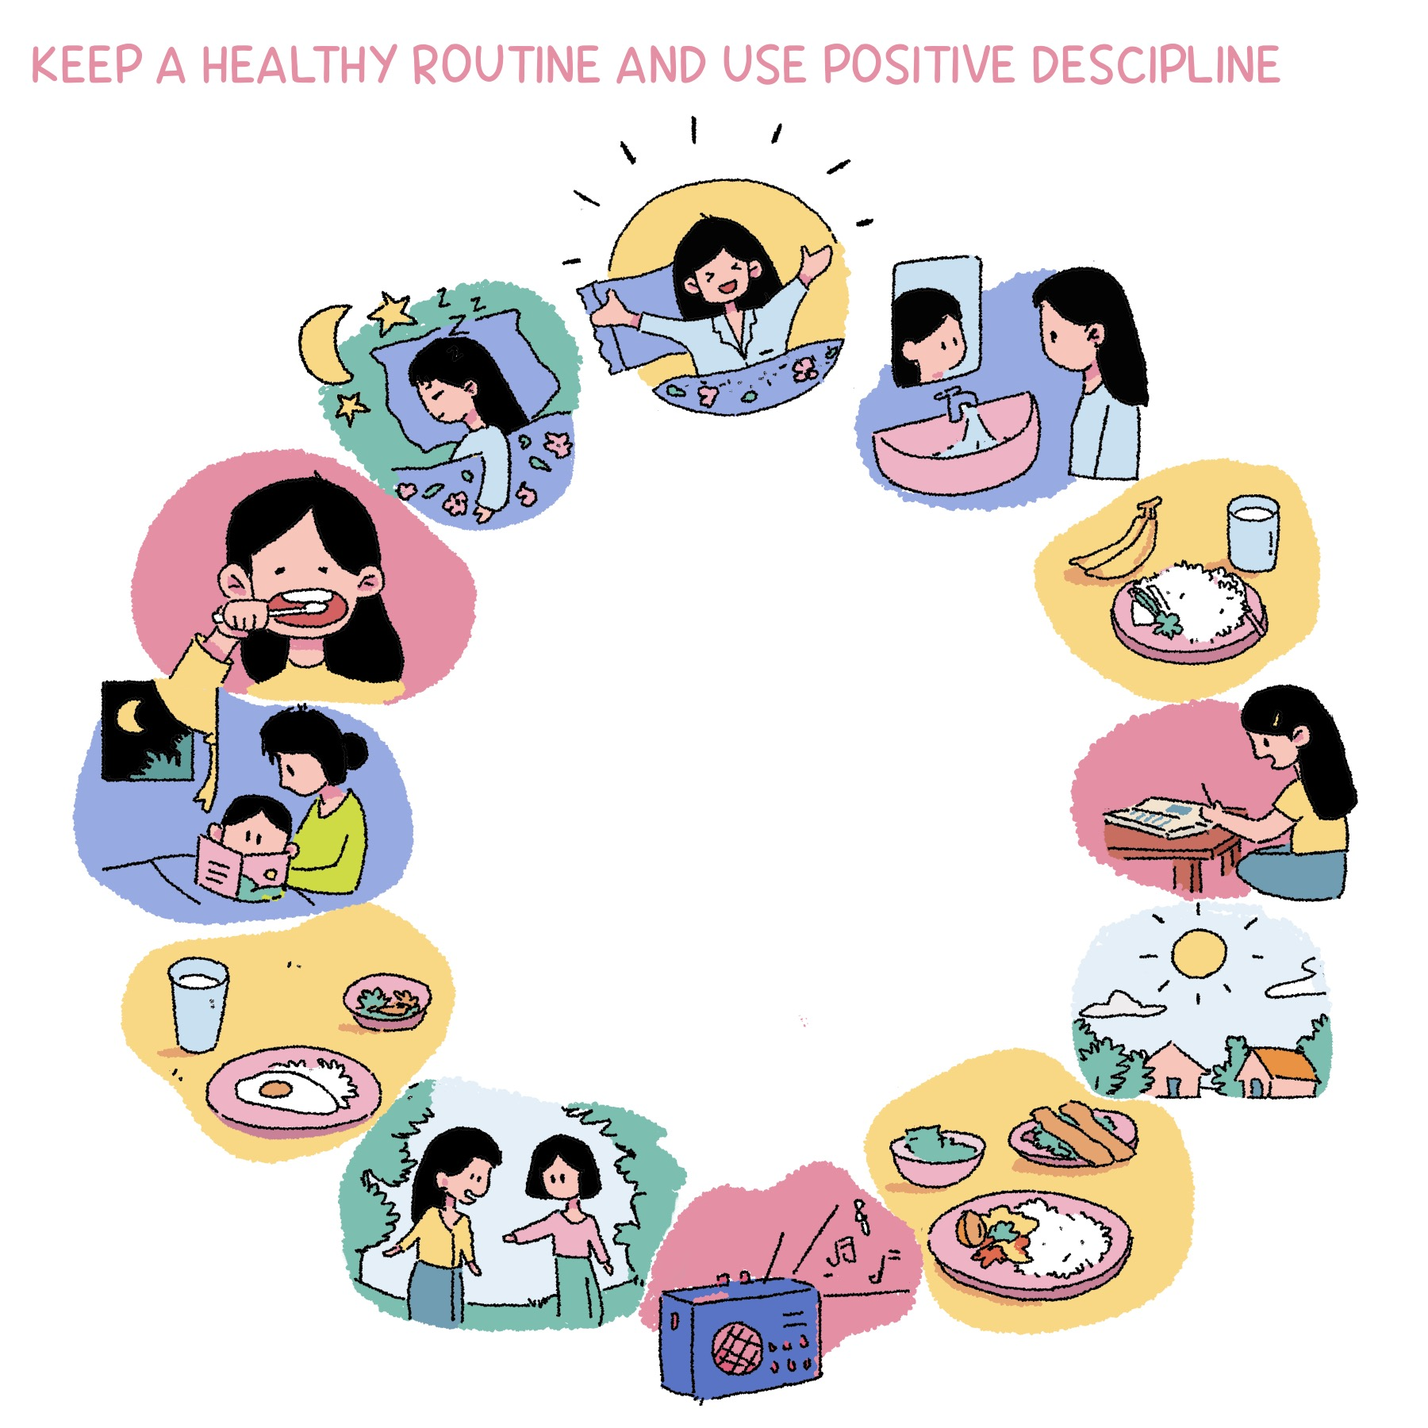
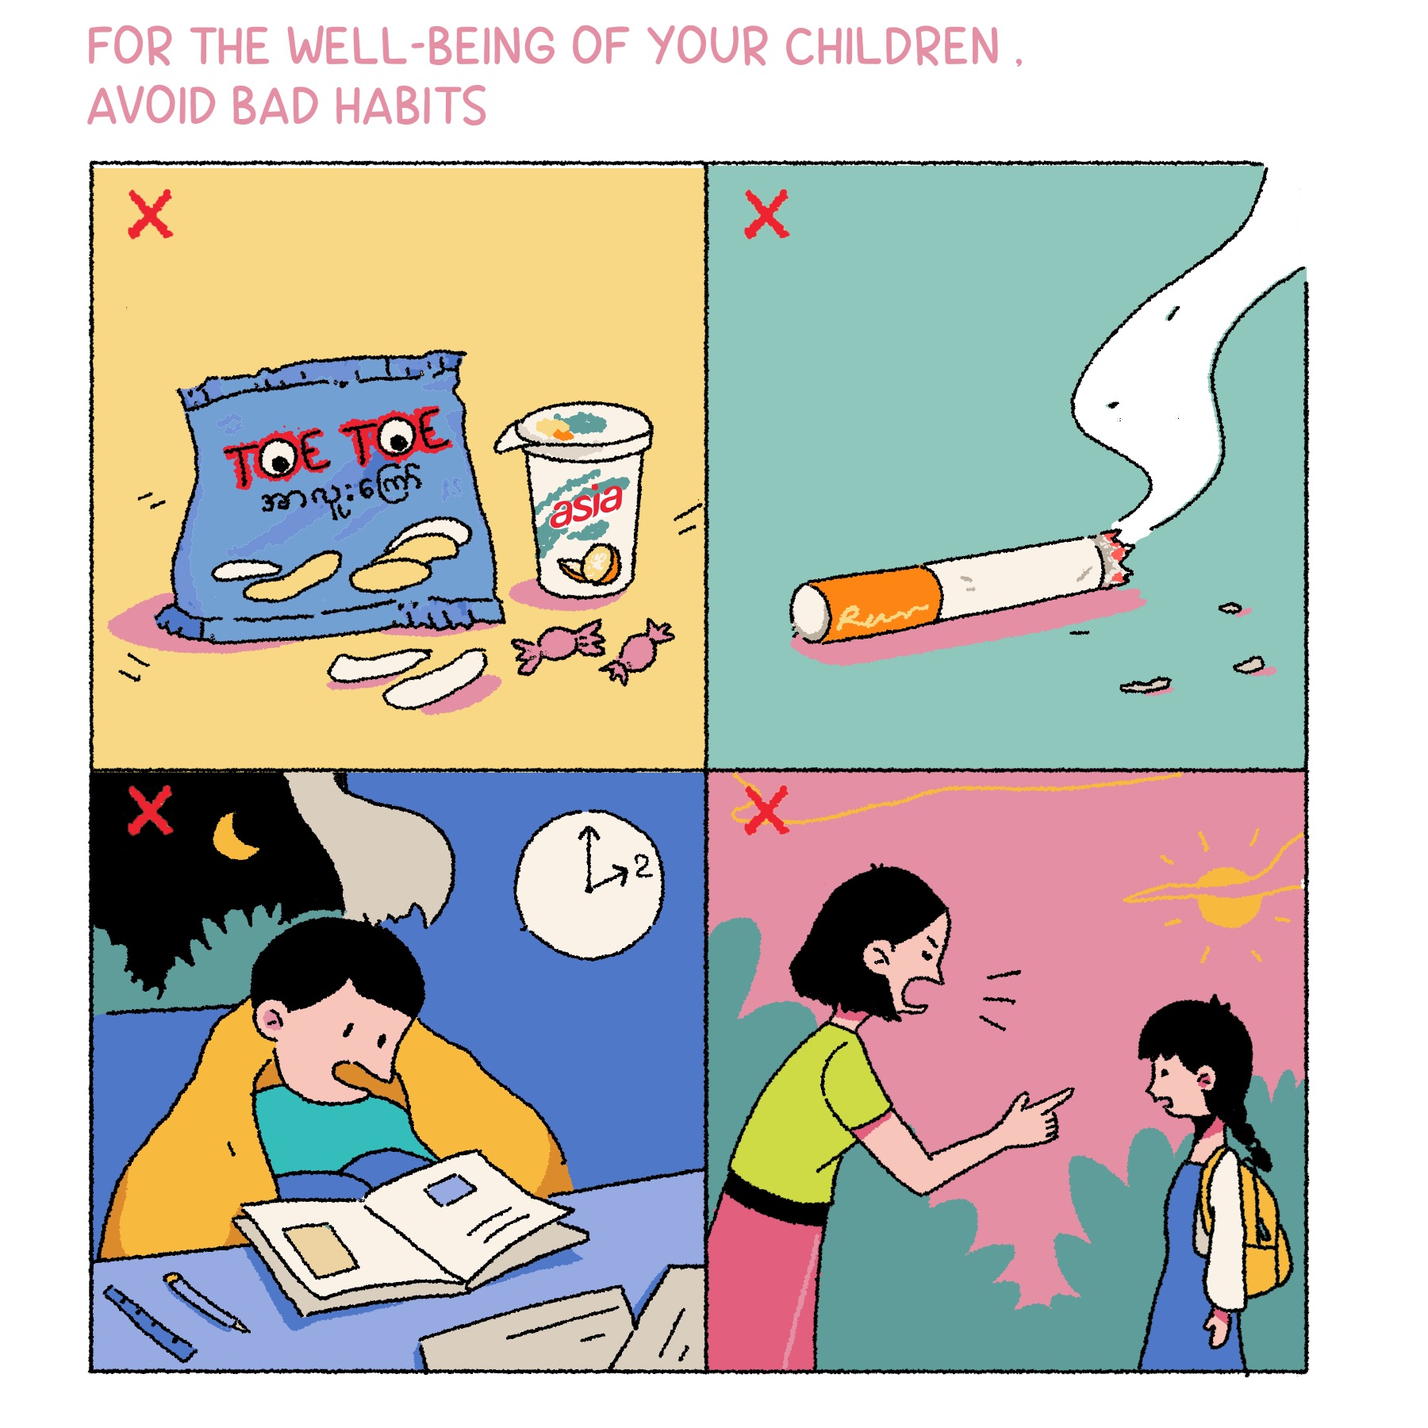
change page names and links update

diff --git a/projects.html b/projects.html
@@ -46,8 +46,8 @@
           </button>
           <a href="index.html" class="mobile-home-link" style="display: none; position: absolute; top: 1rem; left: 50%; transform: translateX(-50%); font-family: 'Darumadrop One', sans-serif; font-weight: 400; font-size: 5rem; color: #d95662; text-decoration: none; white-space: nowrap; z-index: 2501;">Khae Su</a>
           <div class="nav-links">
-            <a href="index.html">Personal</a>
-            <a href="work.html" class="active">Work</a>
+            <a href="index.html">Work</a>
+            <a href="projects.html" class="active">Projects</a>
             <a href="about.html">About</a>
             <a href="contact.html">Contact</a>
           </div>
@@ -55,13 +55,13 @@
             <a href="https://instagram.com/khaesu.art" target="_blank" rel="noopener noreferrer" aria-label="Instagram" class="nav-icon">
               <svg viewBox="0 0 24 24"><path d="M12 7.2A4.8 4.8 0 1 0 12 16.8A4.8 4.8 0 1 0 12 7.2Z" stroke="currentColor" stroke-width="1.5" fill="none"/><circle cx="17.2" cy="6.8" r="1.2" fill="currentColor"/><rect x="3.2" y="3.2" width="17.6" height="17.6" rx="5.8" stroke="currentColor" stroke-width="1.5" fill="none"/></svg>
             </a>
-            <a href="https://www.facebook.com/yaykhae.mm/" target="_blank" rel="noopener noreferrer" aria-label="Facebook" class="nav-icon">
+            <a href="https://www.facebook.com/khaesu.art" target="_blank" rel="noopener noreferrer" aria-label="Facebook" class="nav-icon">
               <svg viewBox="0 0 24 24" fill="none" stroke="currentColor" stroke-width="1" xmlns="http://www.w3.org/2000/svg">
                 <rect x="3.2" y="3.2" width="17.6" height="17.6" rx="5.8" stroke="currentColor" stroke-width="1" fill="none"/>
                 <path d="M13 19V13H15L15.3 11H13V9.5C13 9 13.2 8.7 14 8.7H15.3V7.2C15.1 7.2 14.4 7.1 13.7 7.1C12.1 7.1 11.3 7.9 11.3 9.5V11H10V13H11.3V19H13Z" fill="none" stroke="currentColor" stroke-width="1" stroke-linecap="round" stroke-linejoin="round"/>
               </svg>
             </a>
-            <a href="https://www.youtube.com/@KhaeeeSu" target="_blank" rel="noopener noreferrer" aria-label="YouTube" class="nav-icon">
+            <a href="https://www.youtube.com/@khaesunoe" target="_blank" rel="noopener noreferrer" aria-label="YouTube" class="nav-icon">
               <svg viewBox="0 0 24 24"><path d="M10 9.5V14.5L15 12L10 9.5Z" fill="currentColor"/><rect x="3.2" y="3.2" width="17.6" height="17.6" rx="5.8" stroke="currentColor" stroke-width="1.5" fill="none"/></svg>
             </a>
           </div>
@@ -86,7 +86,7 @@
                 <button class="scroll-arrow right" aria-label="Scroll images right">→</button>
               </div>
               <div class="tile-text">
-                <h2><a href="https://www.facebook.com/story.php?story_fbid=3323949474389956&id=293856427399291&mibextid=wwXIfr&rdid=TaRJQ3eM9zasCzWa#" target="_blank" rel="noopener noreferrer">Colorstone Book Storefront Series</a></h2>
+                <h2><a href="https://www.facebook.com/story.php?story_fbid=3323949474389956&id=293856427399291&mibextid=wwXIfr&rdid=TaRJQ3eM9zasCzWa#" target="_blank" rel="noopener noreferrer" class="borel-title">Colorstone Book Storefront Series</a></h2>
                 <p>This project was a collaboration with <a href="https://www.facebook.com/colorstones.myanmar" target="_blank" rel="noopener noreferrer">Colorstone Book</a>, a well-known Myanmar stationery brand. They discovered my storefront illustrations on social media and approached me to turn them into a series of book covers for their Watercolour Block line. The project gained a lot of attention online, leading to a full series launch that started with my designs. <a href="https://www.facebook.com/story.php?story_fbid=3323949474389956&id=293856427399291&mibextid=wwXIfr&rdid=TaRJQ3eM9zasCzWa#" target="_blank" rel="noopener noreferrer">Ad Post</a> <a href="https://www.facebook.com/story.php?story_fbid=3308117565973147&id=293856427399291&mibextid=wwXIfr&rdid=HlNqeF4ctUMPzypQ#" target="_blank" rel="noopener noreferrer">Painting Process Video</a> <a href="https://www.facebook.com/story.php?story_fbid=3346120115506225&id=293856427399291&mibextid=wwXIfr&rdid=0NUhXoI00uXL2uOm#" target="_blank" rel="noopener noreferrer">Watercolour Pastel Set Promotional Video</a></p>
               </div>
             </div>
@@ -109,7 +109,7 @@
                 <button class="scroll-arrow right" aria-label="Scroll images right">→</button>
               </div>
               <div class="tile-text">
-                <h2><a href="https://www.nrc.no/campaign/blp/trauma" target="_blank" rel="noopener noreferrer">Better Learning Programme Comic</a></h2>
+                <h2><a href="https://www.nrc.no/campaign/blp/trauma" target="_blank" rel="noopener noreferrer" class="borel-title">Better Learning Programme Comic</a></h2>
                 <p>This comic was created in collaboration with <a href="https://www.nrc.no/" target="_blank" rel="noopener noreferrer">Norwegian Refugee Council (NRC)</a> for their <a href="https://www.nrc.no/campaign/blp/trauma" target="_blank" rel="noopener noreferrer">Better Learning Programme</a> in Myanmar. They provided story texts in multiple languages, which I adapted into illustrated comics, incorporating both visuals and text. The comic follows the journey of a child learning to cope after being displaced by military conflict. It was printed and distributed as part of NRC's refugee support efforts.</p>
               </div>
             </div>
@@ -129,7 +129,7 @@
                 <button class="scroll-arrow right" aria-label="Scroll images right">→</button>
               </div>
               <div class="tile-text">
-                <h2><a href="https://www.nrc.no/campaign/blp/trauma" target="_blank" rel="noopener noreferrer">Better Learning Programme Educational Poster</a></h2>
+                <h2><a href="https://www.nrc.no/campaign/blp/trauma" target="_blank" rel="noopener noreferrer" class="borel-title">Better Learning Programme Poster</a></h2>
                 <p>This educational poster was created to promote healthy routines, positive discipline, and emotional wellbeing for children affected by the conflict in Myanmar. The illustrations were designed to be clear, engaging, and culturally relevant, with key messages incorporated in multiple local languages provided by the organisation to ensure accessibility across different communities.</p>
               </div>
             </div>
@@ -151,7 +151,7 @@
                 <button class="scroll-arrow right" aria-label="Scroll images right">→</button>
               </div>
               <div class="tile-text">
-                <h2><a href="https://www.nrc.no/what-we-do/activities-in-the-field/icla" target="_blank" rel="noopener noreferrer">Information, Counselling and Legal Assistance (ICLA) Visual Materials</a></h2>
+                <h2><a href="https://www.nrc.no/what-we-do/activities-in-the-field/icla" target="_blank" rel="noopener noreferrer" class="borel-title">Information, Counselling and Legal Assistance (ICLA) Visual Materials</a></h2>
                 <p>As part of NRC's ICLA programme in Myanmar, I developed visual materials including posters and leaflets to help share essential legal information with affected communities. The project involved transforming around 50 key messages into simple, easy-to-understand illustrations. To reach as many people as possible, the materials were produced in Burmese, English, and several regional languages.</p>
               </div>
             </div>
@@ -170,7 +170,7 @@
                 <button class="scroll-arrow right" aria-label="Scroll images right">→</button>
               </div>
               <div class="tile-text">
-                <h2><a href="https://www.facebook.com/famepharma" target="_blank" rel="noopener noreferrer">FAME Pharmaceuticals Illustrative Materials</a></h2>
+                <h2><a href="https://famepharma.com/" target="_blank" rel="noopener noreferrer" class="borel-title">FAME Pharmaceuticals Illustrative Materials</a></h2>
                 <p><a href="https://www.facebook.com/famepharma" target="_blank" rel="noopener noreferrer">FAME</a> commissioned me to create promotional illustrations for their brand, including artwork for dietary supplements, their organic farm products, and a featured illustration in their designer calendar. Each piece was tailored to communicate their brand's identity in a visually engaging way. <a href="https://www.facebook.com/share/p/19Z9vMYEL5/?mibextid=wwXIfr" target="_blank" rel="noopener noreferrer">Supplement Advertisement</a> <a href="https://www.facebook.com/share/p/16PH6bPsmq/?mibextid=wwXIfr" target="_blank" rel="noopener noreferrer">Organic Farm Advertisement</a> <a href="https://www.facebook.com/story.php?story_fbid=407295384431699&id=109840050843902&mibextid=wwXIfr&rdid=9NDnPEB8Fd36TRQz#" target="_blank" rel="noopener noreferrer">Designer Calendar</a></p>
               </div>
             </div>

diff --git a/contact.html b/contact.html
@@ -46,8 +46,8 @@
                     </button>
                     <a href="index.html" class="mobile-home-link" style="display: none; position: absolute; top: 1rem; left: 50%; transform: translateX(-50%); font-family: 'Darumadrop One', sans-serif; font-weight: 400; font-size: 5rem; color: #d95662; text-decoration: none; white-space: nowrap; z-index: 2501;">Khae Su</a>
                     <div class="nav-links">
-                        <a href="index.html">Personal</a>
-                        <a href="work.html">Work</a>
+                        <a href="index.html">Work</a>
+                        <a href="projects.html">Projects</a>
                         <a href="about.html">About</a>
                         <a href="contact.html" class="active">Contact</a>
                     </div>
@@ -55,13 +55,13 @@
                         <a href="https://instagram.com/khaesu.art" target="_blank" rel="noopener noreferrer" aria-label="Instagram" class="nav-icon">
                             <svg viewBox="0 0 24 24"><path d="M12 7.2A4.8 4.8 0 1 0 12 16.8A4.8 4.8 0 1 0 12 7.2Z" stroke="currentColor" stroke-width="1.5" fill="none"/><circle cx="17.2" cy="6.8" r="1.2" fill="currentColor"/><rect x="3.2" y="3.2" width="17.6" height="17.6" rx="5.8" stroke="currentColor" stroke-width="1.5" fill="none"/></svg>
                         </a>
-                        <a href="https://www.facebook.com/yaykhae.mm/" target="_blank" rel="noopener noreferrer" aria-label="Facebook" class="nav-icon">
+                        <a href="https://www.facebook.com/khaesu.art" target="_blank" rel="noopener noreferrer" aria-label="Facebook" class="nav-icon">
                             <svg viewBox="0 0 24 24" fill="none" stroke="currentColor" stroke-width="1" xmlns="http://www.w3.org/2000/svg">
                                 <rect x="3.2" y="3.2" width="17.6" height="17.6" rx="5.8" stroke="currentColor" stroke-width="1" fill="none"/>
                                 <path d="M13 19V13H15L15.3 11H13V9.5C13 9 13.2 8.7 14 8.7H15.3V7.2C15.1 7.2 14.4 7.1 13.7 7.1C12.1 7.1 11.3 7.9 11.3 9.5V11H10V13H11.3V19H13Z" fill="none" stroke="currentColor" stroke-width="1" stroke-linecap="round" stroke-linejoin="round"/>
                             </svg>
                         </a>
-                        <a href="https://www.youtube.com/@KhaeeeSu" target="_blank" rel="noopener noreferrer" aria-label="YouTube" class="nav-icon">
+                        <a href="https://www.youtube.com/@khaesunoe" target="_blank" rel="noopener noreferrer" aria-label="YouTube" class="nav-icon">
                             <svg viewBox="0 0 24 24"><path d="M10 9.5V14.5L15 12L10 9.5Z" fill="currentColor"/><rect x="3.2" y="3.2" width="17.6" height="17.6" rx="5.8" stroke="currentColor" stroke-width="1.5" fill="none"/></svg>
                         </a>
                     </div>
@@ -75,8 +75,7 @@
                 </div>
                 <h2 style="color: #5c8a34;">Interested in working with me?</h2>
                 <p style="font-size: 1.1rem;">
-                    I'm currently open for commissions, collaborations, or creative conversations. Feel free to send me a message below.<br>
-                    I'd love to hear from you 🌿<br><br>
+                    I'm open to commissions, collaborations, and creative conversations. Whether you have a project in mind or just want to say hello, don’t hesitate to reach out.<br><br>
                     <span><a href="mailto:khaesu.art@gmail.com" style="color: inherit;">khaesu.art@gmail.com</a></span>
                 </p>
                 <form action="https://formsubmit.co/khaesu.art@gmail.com" method="POST" class="contact-form">

diff --git a/thank-you.html b/thank-you.html
@@ -45,8 +45,8 @@
                     </button>
                     <a href="index.html" class="mobile-home-link" style="display: none; position: absolute; top: 1rem; left: 50%; transform: translateX(-50%); font-family: 'Darumadrop One', sans-serif; font-weight: 400; font-size: 5rem; color: #d95662; text-decoration: none; white-space: nowrap; z-index: 2501;">Khae Su</a>
                     <div class="nav-links">
-                        <a href="index.html">Personal</a>
-                        <a href="work.html">Work</a>
+                        <a href="index.html">Work</a>
+                        <a href="projects.html">Projects</a>
                         <a href="about.html">About</a>
                         <a href="contact.html">Contact</a>
                     </div>
@@ -54,13 +54,13 @@
                         <a href="https://instagram.com/khaesu.art" target="_blank" rel="noopener noreferrer" aria-label="Instagram" class="nav-icon">
                             <svg viewBox="0 0 24 24"><path d="M12 7.2A4.8 4.8 0 1 0 12 16.8A4.8 4.8 0 1 0 12 7.2Z" stroke="currentColor" stroke-width="1.5" fill="none"/><circle cx="17.2" cy="6.8" r="1.2" fill="currentColor"/><rect x="3.2" y="3.2" width="17.6" height="17.6" rx="5.8" stroke="currentColor" stroke-width="1.5" fill="none"/></svg>
                         </a>
-                        <a href="https://www.facebook.com/yaykhae.mm/" target="_blank" rel="noopener noreferrer" aria-label="Facebook" class="nav-icon">
+                        <a href="https://www.facebook.com/khaesu.art" target="_blank" rel="noopener noreferrer" aria-label="Facebook" class="nav-icon">
                             <svg viewBox="0 0 24 24" fill="none" stroke="currentColor" stroke-width="1" xmlns="http://www.w3.org/2000/svg">
                                 <rect x="3.2" y="3.2" width="17.6" height="17.6" rx="5.8" stroke="currentColor" stroke-width="1" fill="none"/>
                                 <path d="M13 19V13H15L15.3 11H13V9.5C13 9 13.2 8.7 14 8.7H15.3V7.2C15.1 7.2 14.4 7.1 13.7 7.1C12.1 7.1 11.3 7.9 11.3 9.5V11H10V13H11.3V19H13Z" fill="none" stroke="currentColor" stroke-width="1" stroke-linecap="round" stroke-linejoin="round"/>
                             </svg>
                         </a>
-                        <a href="https://www.youtube.com/@KhaeeeSu" target="_blank" rel="noopener noreferrer" aria-label="YouTube" class="nav-icon">
+                        <a href="https://www.youtube.com/@khaesunoe" target="_blank" rel="noopener noreferrer" aria-label="YouTube" class="nav-icon">
                             <svg viewBox="0 0 24 24"><path d="M10 9.5V14.5L15 12L10 9.5Z" fill="currentColor"/><rect x="3.2" y="3.2" width="17.6" height="17.6" rx="5.8" stroke="currentColor" stroke-width="1.5" fill="none"/></svg>
                         </a>
                     </div>

diff --git a/index.html b/index.html
@@ -46,8 +46,8 @@
           </button>
           <a href="index.html" class="mobile-home-link" style="display: none; position: absolute; top: 1rem; left: 50%; transform: translateX(-50%); font-family: 'Darumadrop One', sans-serif; font-weight: 400; font-size: 5rem; color: #d95662; text-decoration: none; white-space: nowrap; z-index: 2501;">Khae Su</a>
           <div class="nav-links">
-            <a href="index.html" class="active">Personal</a>
-            <a href="work.html">Work</a>
+            <a href="index.html" class="active">Work</a>
+            <a href="projects.html">Projects</a>
             <a href="about.html">About</a>
             <a href="contact.html">Contact</a>
           </div>
@@ -55,13 +55,13 @@
             <a href="https://instagram.com/khaesu.art" target="_blank" rel="noopener noreferrer" aria-label="Instagram" class="nav-icon">
               <svg viewBox="0 0 24 24"><path d="M12 7.2A4.8 4.8 0 1 0 12 16.8A4.8 4.8 0 1 0 12 7.2Z" stroke="currentColor" stroke-width="1.5" fill="none"/><circle cx="17.2" cy="6.8" r="1.2" fill="currentColor"/><rect x="3.2" y="3.2" width="17.6" height="17.6" rx="5.8" stroke="currentColor" stroke-width="1.5" fill="none"/></svg>
             </a>
-            <a href="https://www.facebook.com/yaykhae.mm/" target="_blank" rel="noopener noreferrer" aria-label="Facebook" class="nav-icon">
+            <a href="https://www.facebook.com/khaesu.art" target="_blank" rel="noopener noreferrer" aria-label="Facebook" class="nav-icon">
               <svg viewBox="0 0 24 24" fill="none" stroke="currentColor" stroke-width="1" xmlns="http://www.w3.org/2000/svg">
                 <rect x="3.2" y="3.2" width="17.6" height="17.6" rx="5.8" stroke="currentColor" stroke-width="1" fill="none"/>
                 <path d="M13 19V13H15L15.3 11H13V9.5C13 9 13.2 8.7 14 8.7H15.3V7.2C15.1 7.2 14.4 7.1 13.7 7.1C12.1 7.1 11.3 7.9 11.3 9.5V11H10V13H11.3V19H13Z" fill="none" stroke="currentColor" stroke-width="1" stroke-linecap="round" stroke-linejoin="round"/>
               </svg>
             </a>
-            <a href="https://www.youtube.com/@KhaeeeSu" target="_blank" rel="noopener noreferrer" aria-label="YouTube" class="nav-icon">
+            <a href="https://www.youtube.com/@khaesunoe" target="_blank" rel="noopener noreferrer" aria-label="YouTube" class="nav-icon">
               <svg viewBox="0 0 24 24"><path d="M10 9.5V14.5L15 12L10 9.5Z" fill="currentColor"/><rect x="3.2" y="3.2" width="17.6" height="17.6" rx="5.8" stroke="currentColor" stroke-width="1.5" fill="none"/></svg>
             </a>
           </div>

diff --git a/about.html b/about.html
@@ -59,8 +59,8 @@
             style="display: none; position: absolute; top: 1rem; left: 50%; transform: translateX(-50%); font-family: 'Darumadrop One', sans-serif; font-weight: 400; font-size: 5rem; color: #d95662; text-decoration: none; white-space: nowrap; z-index: 2501;">Khae
             Su</a>
           <div class="nav-links">
-            <a href="index.html">Personal</a>
-            <a href="work.html">Work</a>
+            <a href="index.html">Work</a>
+            <a href="projects.html">Projects</a>
             <a href="about.html" class="active">About</a>
             <a href="contact.html">Contact</a>
           </div>
@@ -75,8 +75,8 @@
                   fill="none" />
               </svg>
             </a>
-            <a href="https://www.facebook.com/yaykhae.mm/" target="_blank" rel="noopener noreferrer"
-              aria-label="Facebook" class="nav-icon">
+            <a href="https://www.facebook.com/khaesu.art" target="_blank" rel="noopener noreferrer" aria-label="Facebook"
+              class="nav-icon">
               <svg viewBox="0 0 24 24" fill="none" stroke="currentColor" stroke-width="1"
                 xmlns="http://www.w3.org/2000/svg">
                 <rect x="3.2" y="3.2" width="17.6" height="17.6" rx="5.8" stroke="currentColor" stroke-width="1"
@@ -86,7 +86,7 @@
                   fill="none" stroke="currentColor" stroke-width="1" stroke-linecap="round" stroke-linejoin="round" />
               </svg>
             </a>
-            <a href="https://www.youtube.com/@KhaeeeSu" target="_blank" rel="noopener noreferrer" aria-label="YouTube"
+            <a href="https://www.youtube.com/@khaesunoe" target="_blank" rel="noopener noreferrer" aria-label="YouTube"
               class="nav-icon">
               <svg viewBox="0 0 24 24">
                 <path d="M10 9.5V14.5L15 12L10 9.5Z" fill="currentColor" />

diff --git a/styles.css b/styles.css
@@ -491,7 +491,7 @@ nav a.active,
   justify-content: center;
   gap: 3.5rem;
   padding: 3rem 2rem;
-  max-width: 900px;
+  max-width: 1400px;
   margin: auto;
   text-align: center;
   background: #fdf6f0;
@@ -711,7 +711,7 @@ nav a.active,
 /* Contact section */
 .contact-page {
   padding: 2rem 1rem;
-  max-width: 600px;
+  max-width: 900px;
   margin: auto;
   text-align: center;
   background: #fdf6f0;
@@ -837,7 +837,7 @@ footer a:hover {
 }
 
 .tile-inner {
-  max-width: 1300px;
+  max-width: 1800px;
   margin: 0 auto;
   width: 100%;
   max-width: 100vw;
@@ -962,7 +962,7 @@ footer a:hover {
 }
 
 .tile-text h2 {
-  font-size: 1.25rem;
+  font-size: 1.4rem;
   color: #5c8a34 !important;
   margin-bottom: 0.7rem;
   font-family: 'Borel', cursive;
@@ -978,7 +978,7 @@ footer a:hover {
 .tile-text h2 a:focus {
   text-decoration: underline wavy #77b23e 2px;
   color: #3e5c4d;
-  text-underline-offset: 10px;
+  text-underline-offset: 14px;
 }
 
 .tile-text p {
@@ -2006,4 +2006,8 @@ body.nav-open .nav-social .nav-icon svg circle[fill]:not([fill="none"]) {
     opacity: 1 !important;
     pointer-events: auto !important;
   }
+}
+
+.borel-title {
+  font-family: 'Borel', cursive !important;
 }

diff --git a/scripts.js b/scripts.js
@@ -5,7 +5,7 @@ window.addEventListener('contextmenu', function (e) {
 // Determine which page we're on and set popup navigation variables accordingly
 let totalImages = 4;
 let popupPrefix = '#popup';
-if (window.location.pathname.includes('work.html')) {
+if (window.location.pathname.includes('projects.html')) {
     totalImages = 6;
     popupPrefix = '#popup';
 } else if (window.location.pathname.endsWith('index.html') || window.location.pathname === '/' || window.location.pathname === '/khaesu.github.io/') {
